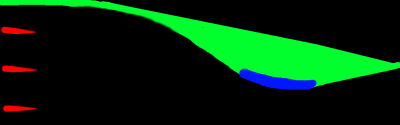
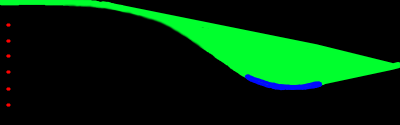
Update jet1.png to adhere to real-life scale sizes. img width represents 10cm, and emitter wires are typically 0.1cm diameter. With the jet1.png width being 400px, the emitter wire should be 4px diameter.
also moved the jet.py to use 40kV to match real-life experiments

diff --git a/demo/jet.py b/demo/jet.py
@@ -3,25 +3,27 @@ import time
 
 import cv2
 import numpy as np
+import matplotlib.pyplot as plt
 
 from fast_flow import ElectrostaticForceHandler, FlowSolver, Boundry
 from fast_flow.core.renderer import Renderer
 
 JET_ID = 1
 TOTAL_TIME = 1
-P_CHARGE = 400000
+P_CHARGE = 40000
 N_ChARGE_MULTIPLIER = -1.0
 
 
 def mirror_stack_pad(img: np.ndarray) -> np.ndarray:
     # Flip vertically and stack top to bottom
+    #img = img[::2, ::2]
     flipped = np.flip(img, axis=0)
     stacked = np.concatenate((img, flipped), axis=0)
 
     # Add padding equal to 50% of the stacked dimensions on each side
     h, w = stacked.shape[:2]
-    pad_y = h // 2
-    pad_x = w // 2
+    pad_y = h
+    pad_x = w
 
     # Preserve additional dimensions (e.g., RGB/RGBA channels)
     padding = [(pad_y, pad_y), (pad_x, pad_x)]
@@ -30,11 +32,35 @@ def mirror_stack_pad(img: np.ndarray) -> np.ndarray:
     return np.pad(stacked, padding, mode="constant", constant_values=0)
 
 
+def to_heatmap(a: np.ndarray, solid: np.ndarray, label: str, title: str, out: str, lx: int, ly: int):
+    # --- Visualization (extent and figure shape follow lx/ly) ---
+    cmap = plt.cm.jet.copy()
+    cmap.set_bad('0.35')
+    a = np.ma.masked_where(solid, a)
+
+    height = 4.5
+    width = (a.shape[1] / a.shape[0]) * height
+    fig, ax = plt.subplots(figsize=(width, height), dpi=100)
+    im = ax.imshow(a, origin='lower',
+                   extent=[0, lx, 0, ly],
+                   cmap=cmap, aspect='equal')
+    ax.set_xlim(0, lx)
+    ax.set_ylim(0, ly)
+    fig.colorbar(im, ax=ax, label=label)
+    ax.set_xlabel('X')
+    ax.set_ylabel('Y')
+    ax.set_title(f'{title} ({TOTAL_TIME:g}s, {steps} adaptive steps)')
+    plt.tight_layout()
+    fig.savefig(out)
+
+
 if __name__ == '__main__':
 
     img = cv2.imread(f'./res/jet{JET_ID}.png')
     img = mirror_stack_pad(img)
     ny, nx = img.shape[0], img.shape[1]
+    ly = ny // 100
+    lx = nx // 100
     print(f'Loaded image: dims=({ny}, {nx})')
 
     # channel 2 (red) = cow -> +charge; channel 0 (blue) =
@@ -45,7 +71,7 @@ if __name__ == '__main__':
     renderer = Renderer("jet", 120*2, ny, nx, record=True, legend=True)
     solver = FlowSolver(img=img, nit=50, rho=1.0, nu=0.05,
                         boundary=Boundry.NONE,
-                        lx=8.0, ly=5.0,
+                        lx=lx, ly=ly,
                         force_handlers=[handler],
                         renderer=renderer)
 
@@ -56,16 +82,14 @@ if __name__ == '__main__':
 
     u = solver.horizontal_velocity
     v = solver.vertical_velocity
-    speed = np.hypot(u[:, -1], v[:, -1])
-    solid = solver.solid.astype(bool)[:, -1]
+    speed = np.sqrt(np.square(u) + np.square(v))
+    solid = solver.solid.astype(bool)
     density = handler.ion_density()
     force = handler.solid_forces()
     print('----------- RESULTS ------------')
     print(f"steps taken: {steps}\n\tsimulated time: {solver.time:.6f}s")
     print(f"wall-clock runtime: {wall:.2f}s\n\t"
           f"iterations per second: {steps / wall:.1f}")
-    print(f"finite: {np.isfinite(u).all() and np.isfinite(v).all()}\n\t"
-          f"avg RHS exit speed: {speed[~solid].mean():.10f}\n\t")
     print(f"ion density: total {density.sum():.1f}, "
           f"max {density.max():.3f}")
     print(f"Net forces (x,y) = {force['net']}")
@@ -73,7 +97,21 @@ if __name__ == '__main__':
     out_dir = os.path.join(
         os.path.dirname(os.path.abspath(__file__)), 'out/jet')
     os.makedirs(out_dir, exist_ok=True)
-    out = os.path.join(out_dir, f'jet_velocity_{JET_ID}.png')
+
+    to_heatmap(speed, solid, 'velocity', 'Air Velocity', os.path.join(out_dir, f'{JET_ID}_velocity_hm.png'), lx, ly)
+    to_heatmap(density, solid, 'density', 'Air Density', os.path.join(out_dir, f'{JET_ID}_density_hm.png'), lx, ly)
+
+    u, v = handler.ion_velocity()
+    speed = np.sqrt(np.square(u) + np.square(v))
+    to_heatmap(speed, solid, 'velocity', 'Ion Velocity', os.path.join(out_dir,f'{JET_ID}_ion_velocity.png'), lx, ly)
+    to_heatmap(handler.ion_density(), solid, 'Ion Density', 'density', os.path.join(out_dir,f'{JET_ID}_ion_density.png'), lx, ly)
+
+    u, v = handler.o2_velocity()
+    speed = np.sqrt(np.square(u) + np.square(v))
+    to_heatmap(speed, solid, 'velocity', 'O2 Velocity', os.path.join(out_dir,f'{JET_ID}_o2_velocity.png'), lx, ly)
+    to_heatmap(handler.o2_density(), solid, 'density', 'O2 Density', os.path.join(out_dir,f'{JET_ID}_o2_density.png'), lx, ly)
+
+    out = os.path.join(out_dir, f'{JET_ID}_velocity_directional.png')
     renderer.save(out)
-    renderer.save_video(os.path.join(out_dir, f'jet_velocity_{JET_ID}.mp4'), 30)
+    renderer.save_video(os.path.join(out_dir, f'{JET_ID}.mp4'), 30)
     print(f"saved {out}")
